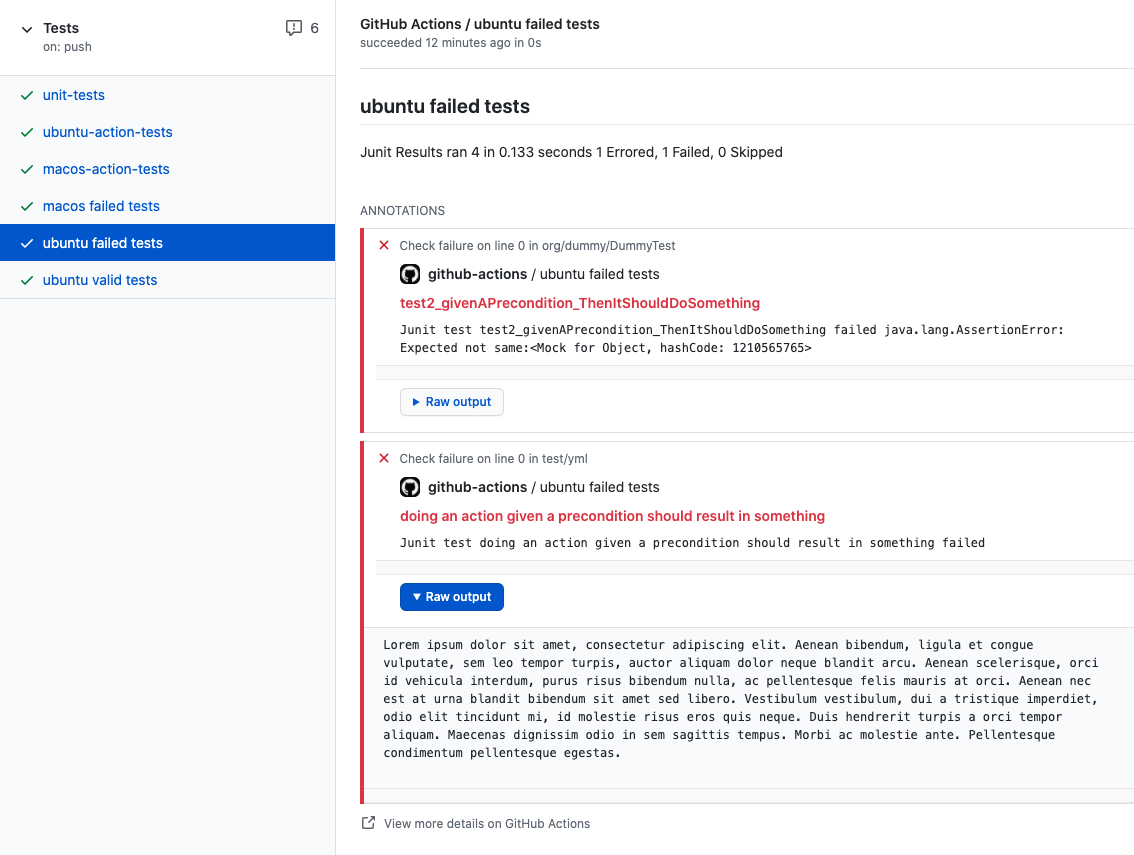
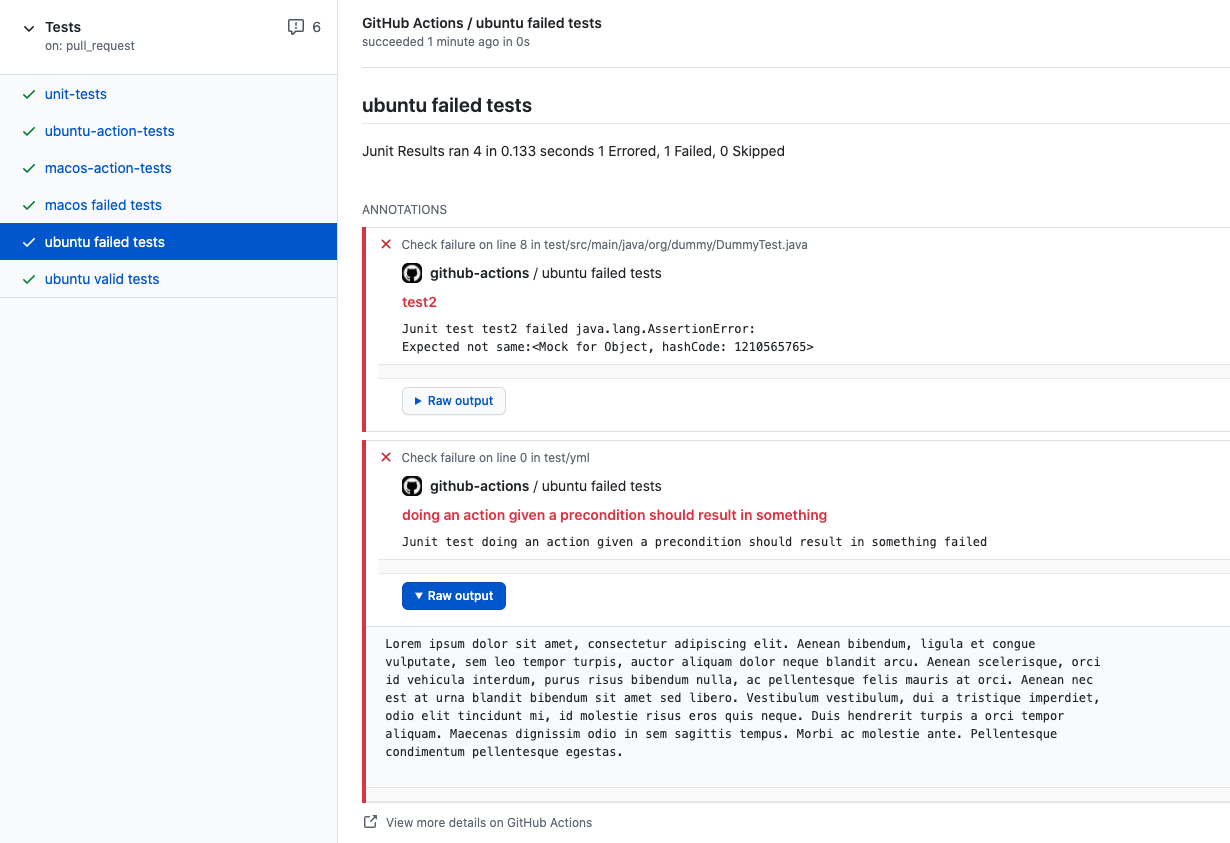
Explain that annotations appear on diff view

diff --git a/README.md b/README.md
@@ -30,3 +30,8 @@ A successful run will look like
 A failed run will look like
 
 ![Fail](docs/fail.png?raw=true)
+
+Then you can click on the filename line (`Check failure ... DummyTest.java` here), and you'll be
+redirected to the test file with the annotation like
+
+![Diff view](docs/diff_view.png?raw=true)
